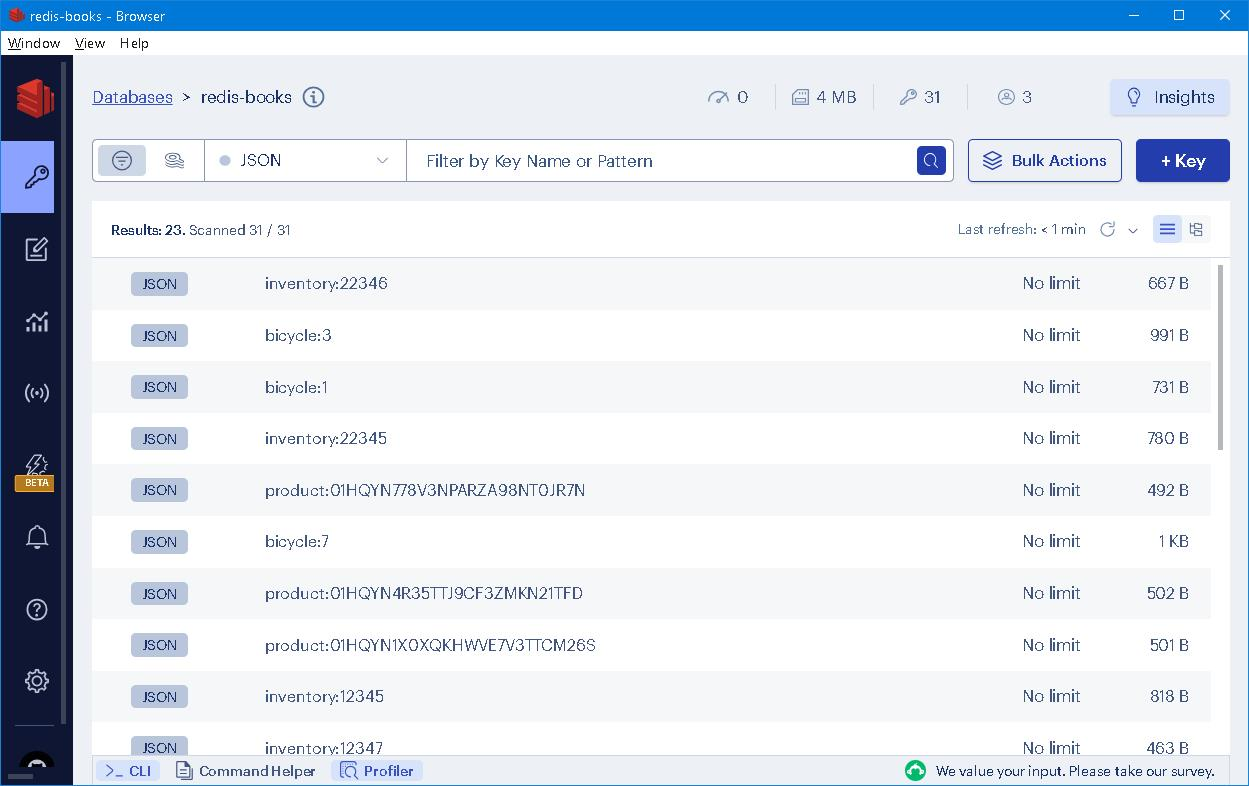
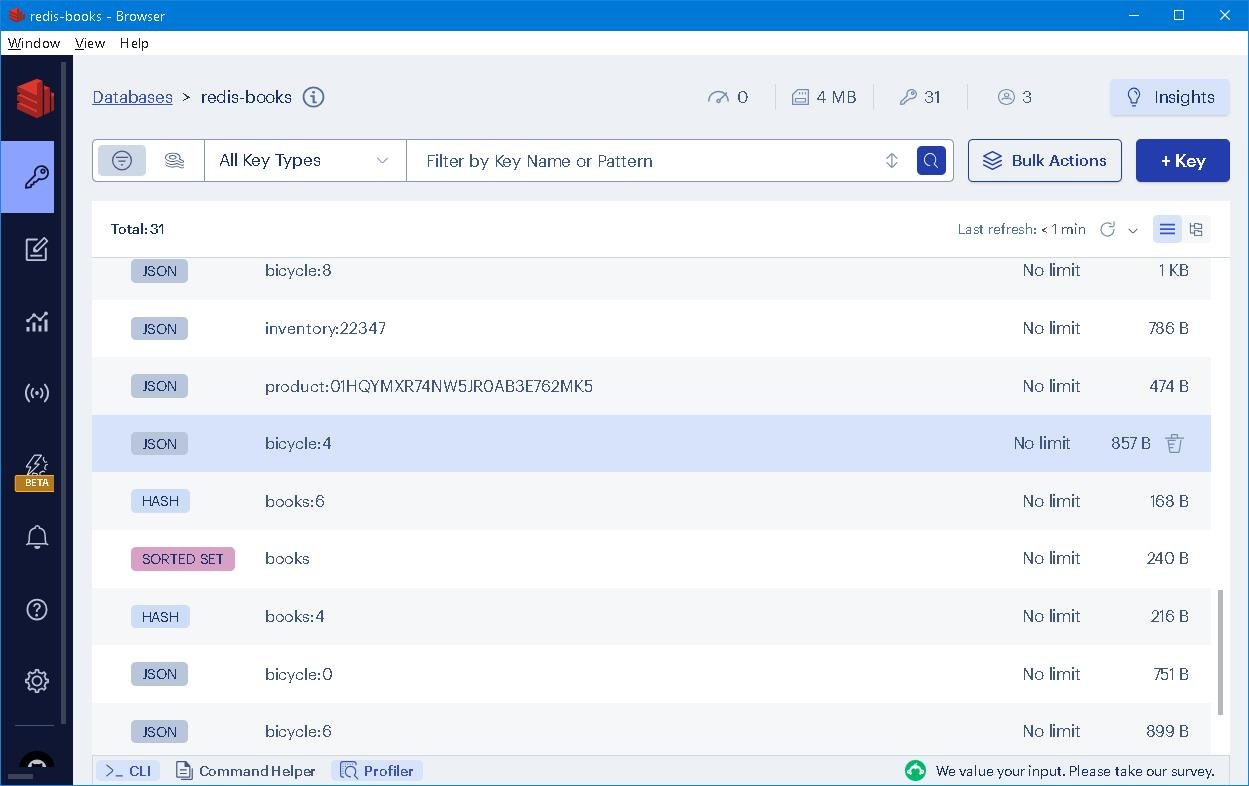
chg img

diff --git a/README.md b/README.md
@@ -18,9 +18,10 @@ Similarly, we could see schema, collection, document, property in NoSQL counterp
 
 ![alt - MongoDB Compass](img/MongoDB_Compass.JPG)
 
-Simply put, [Redis Stack](https://redis.io/docs/about/about-stack/), backed by [Redis](https://redis.io/), is a promising new species of NoSQL family. 
+Simply put, [Redis Stack](https://redis.io/docs/about/about-stack/), backed by [Redis](https://redis.io/), is a promising new species of NoSQL family. Glancing at [RedisInsight](https://redis.com/redis-enterprise/redis-insight/), one will surprisingly at seeing that all sorts of data is stored at the very top level. 
 
 > Redis Stack is an extension of Redis presented in 2022, which introduces JSON, vector, and time series data modeling capabilities, all supporting real-time queries and searches. Redis Stack represents a new approach to providing a rich data modeling experience all within the same database server. It introduces features such as vector similarity search to query structured and unstructured data (for example, text, images, or audio files) and delivers probabilistic Bloom filters to efficiently resolve recurrent big data problems. Redis Stack is also a data platform that supports event-driven programming and introduces stream processing features
+
 
 ![alt - RedisInsight](img/RedisInsight.JPG)
 
